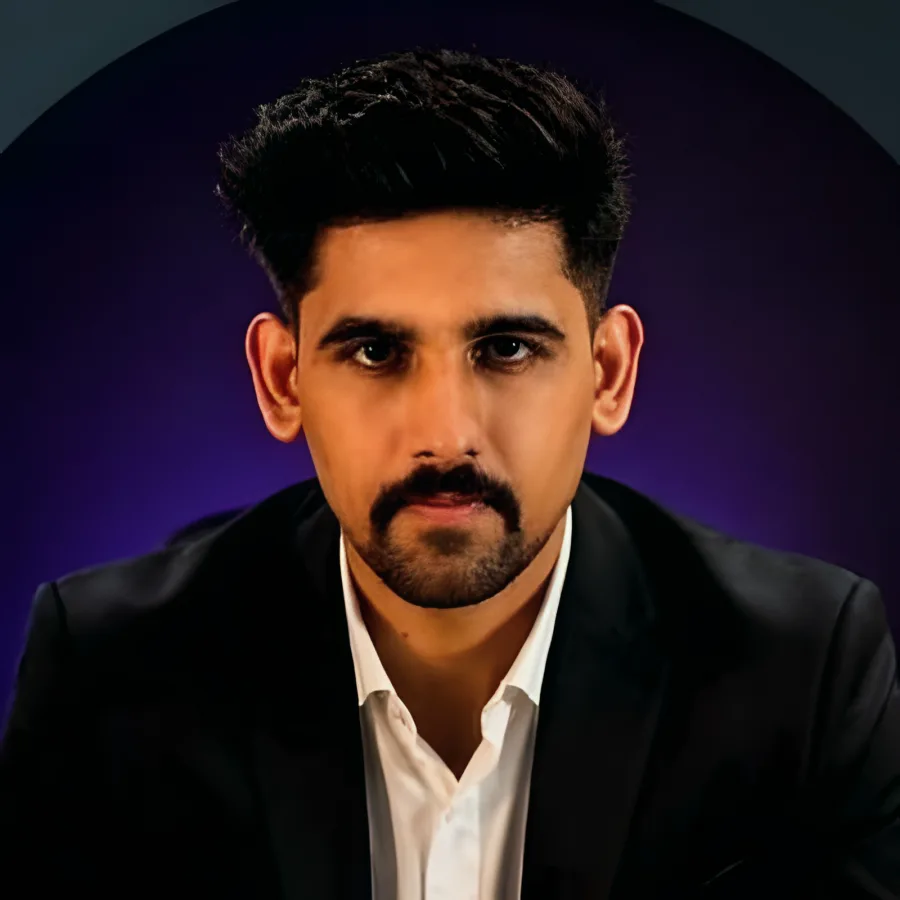
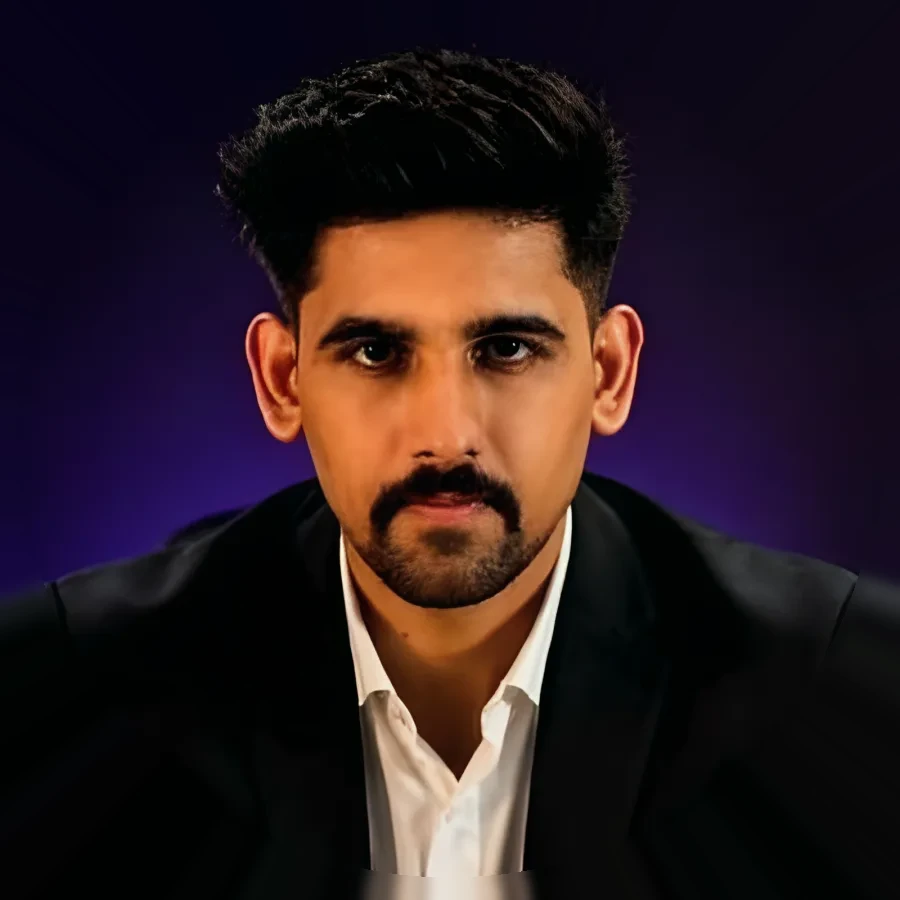
Web-researched competitive audit (21 competitors), animated zombie, clean creator photo corners, plugin 0.4.0

diff --git a/docs/index.html b/docs/index.html
@@ -97,8 +97,14 @@ section{padding:104px 0;position:relative}
 .show{display:grid;grid-template-columns:1.1fr .9fr;gap:18px;align-items:stretch}
 .show .card{padding:0;display:flex;flex-direction:column}
 .show .card .cap{padding:26px 30px}.show .card img{background:#07090c;padding:18px}
-.show .card>img.d{aspect-ratio:4/3;object-fit:cover;object-position:top;width:100%}
+.show .card>img.d{aspect-ratio:16/11;object-fit:cover;object-position:top;width:100%}
 .show .card .mb{flex:1;display:grid;place-items:center;background:#07090c;padding:24px}.show .card .mb img{padding:0;background:none}
+.show .card .mb{flex-direction:column;gap:18px;padding:30px 24px}.zs{width:min(100%,380px);aspect-ratio:212/260;background:url(img/mascot-states.png) 0 0/500% 100% no-repeat;animation:zf 5s steps(1) infinite,zb 1.6s ease-in-out infinite}
+@keyframes zf{0%{background-position:0 0}20%{background-position:25% 0}40%{background-position:50% 0}60%{background-position:75% 0}80%{background-position:100% 0}}
+@keyframes zb{50%{transform:translateY(-10px)}}
+.zl{display:flex;gap:14px;font-size:13px;color:var(--green)}.zl b{font-weight:600;opacity:.5;animation:zt 5s steps(1) infinite}.zl b:nth-child(2){animation-delay:1s}.zl b:nth-child(3){animation-delay:2s}.zl b:nth-child(4){animation-delay:3s}.zl b:nth-child(5){animation-delay:4s}
+@keyframes zt{0%{opacity:1}20%,100%{opacity:.35}}
+@media(prefers-reduced-motion:reduce){.zs,.zl b{animation:none}}
 .show .card h3{font-size:20px}.show .card p{margin-top:8px;font-size:16px}
 
 /* offer */
@@ -215,7 +221,7 @@ section{padding:64px 0}.hero{padding:44px 0 56px}.head{margin-bottom:34px}
 <div class="head rv"><p class="eyebrow">See it</p><h2>The numbers, right where you work.</h2><p class="lead">A small bar inside Claude Code for quick signals, and a dashboard for the details.</p></div>
 <div class="show">
 <div class="card rv"><img class="d" src="img/dashboard.png" alt="TOKEN ZOMBIE dashboard" loading="lazy"><div class="cap"><h3>Dashboard</h3><p>Usage, savings and warnings on one page. Opens on your computer only.</p></div></div>
-<div class="card rv" style="--i:1"><div class="mb"><img src="img/mascot-states.png" alt="Zombie mascot states: idle, working, excited, alert, sleep" loading="lazy"></div><div class="cap"><h3>The zombie tells you the state</h3><p>Idle, working, excited, alert or asleep, so you know at a glance when to act.</p></div></div>
+<div class="card rv" style="--i:1"><div class="mb"><div class="zs" role="img" aria-label="Animated zombie mascot cycling through idle, working, excited, alert and asleep"></div><div class="zl"><b>idle</b><b>working</b><b>excited</b><b>alert</b><b>asleep</b></div></div><div class="cap"><h3>The zombie tells you the state</h3><p>Idle, working, excited, alert or asleep, so you know at a glance when to act.</p></div></div>
 </div></div></section>
 
 <section id="offer" style="background:#0a110c;border-block:1px solid var(--line)"><div class="wrap">

diff --git a/docs/COMPETITIVE-INTELLIGENCE.md b/docs/COMPETITIVE-INTELLIGENCE.md
@@ -1,0 +1,43 @@
+# Competitive intelligence (web-researched 2026-11-23)
+
+Method: three read-only research passes fetched each project's GitHub page. **VERIFIED** = stated on the page as fact. **CLAIM** = the author's own marketing or self-reported number; nothing below was independently reproduced. Star counts are snapshots from the fetch date. One candidate (allytag/LeanContext) returned 404 and is excluded. Code of competitors was not read; only their README pages.
+
+## A. Token saving / output compression
+| Tool | Stars | Licence | What it does (VERIFIED) | Headline number (CLAIM) | Telemetry |
+|---|---|---|---|---|---|
+| RTK `rtk-ai/rtk` | ~87.5k | CLI Apache-2.0; engine BUSL-1.1 | Hook rewrites shell commands, filters test/git/ls/docker output, `rtk gain`, `rtk discover`, pipelines | "up to 90% less command output" (page admits not 90% cost) | opt-in |
+| Context Mode `mksglu/context-mode` | ~34.4k | Elastic 2.0 | Sandbox execution, blocks big reads, SQLite FTS5 search, compaction resume block | "99.4% of output bytes saved" (author's bench) | none |
+| Claude Token Optimizer `nadimtuhin` | 662 | MIT | Trims startup context (CLAUDE.md), audit, compress, prune, hooks | "11,000 → 800 startup tokens" (one project) | not stated |
+| Headroom `chopratejas/headroom` | ~80.5k | Apache-2.0 | Proxy/lib, JSON/AST/prose compressors, reversible originals, cache-aware, shared memory | "21–57% fewer input tokens" on 4 scenarios | beacon ON by default |
+| LeanCTX `yvgude/lean-ctx` | 4.0k | Apache-2.0 engine | 16 read modes, shell patterns, AST (27 langs), audit/proof, dashboard | none (table withdrawn; says savings can net to break-even) | configurable |
+| Token Optimizer `alexgreensh` | ~3.0k | PolyForm Noncommercial | Checkpoint/restore, quality score, audits skills/MCP, status bar, delta re-reads | "24.80M tokens saved" (9.83M metered + 14.97M estimated) | none |
+
+## B. Usage monitoring / observability
+| Tool | Stars | What it does (VERIFIED) | Gap noted |
+|---|---|---|---|
+| ccusage `ryoppippi` | 19.5k | Daily/session/5h-block reports from local logs, cache tokens, ~20 agents, offline pricing, statusline | read-only; no benchmark |
+| Claude-Code-Usage-Monitor `Maciek-roboblog` | ~8.8k | Live terminal monitor, burn rate, forecast, official 5h/7d % when fresh, provenance label per number | plan limits are fixed estimates |
+| claude-code-router `musistudio` | 38.3k | Gateway: routing, fallback, key limits, request logs | acts on traffic; sees prompts |
+| ccstatusline `sirmalloc` | ~13.7k | Statusline: cost, context %, cache hit rate/timer, 5h/weekly forecast | Anthropic usage API calls |
+| ai-observer `tobilg` | 298 | OTLP backend + dashboard, DuckDB, MCP query of own telemetry | OTLP counts differ from session files (own caveat) |
+| claude-code-otel `ColeMurray` | 525 | Grafana/Prometheus stack, team analytics | needs Docker; team-oriented |
+| Langfuse Claude Code integration | n/a | Per-turn traces, tool spans, evals | sends prompts to Langfuse host |
+
+## C. Memory / continuity / workflow
+| Tool | Stars | What it does (VERIFIED) | Proof |
+|---|---|---|---|
+| Claude-Mem `thedotmack` | 119k | Observer agent, SQLite+FTS5+Chroma, progressive disclosure, viewer UI | none; page says its token figures are "not a measured saving"; analytics on by default; observer adds LLM spend |
+| Superpowers `obra` | 324.1k | Skills framework: brainstorm, TDD, plans, subagent review | none quantitative; no persistent memory |
+| Ponytail `DietrichGebert` | 196.8k | Writes less code; live cost "band"; ledger | CLAIM: 39 tasks ×5 runs, −26% cost, −45% tokens (methodology file not checked) |
+| REMvisual/claude-handoff | 76 | /handoff, handoff chain, in-place compact swap | one qualitative A/B |
+| vasilispapg/claude-handoff | 1 | JSONL → handoff.md offline, hooks, redaction | none |
+| marcj/handover | 11 | /handover near 80%, living file, WIP commits | none; statusline daemon spends tokens |
+| Ruflo (claude-flow) `ruvnet` | 82.3k | Swarm orchestration, vector memory, 100+ agents | CLAIM only; heavy footprint |
+| wshobson/agents | 42.8k | 93 plugins / 199 agents catalog, multi-tool adapters | CLAIM; no memory |
+
+## Cross-cutting findings
+1. Almost nobody publishes an independent end-to-end cost benchmark. RTK, Claude-Mem and Token Optimizer admit output savings are not bill savings; LeanCTX withdrew its table. Only Ponytail publishes a controlled-looking scoreboard (self-reported).
+2. Leaders lead with one big number and a demo. TZ has neither yet.
+3. Default telemetry: Headroom and Claude-Mem are on by default; RTK opt-in; Context Mode and Token Optimizer say none.
+4. Licences: RTK engine BUSL, Context Mode ELv2, Token Optimizer noncommercial. TZ is MIT.
+5. Memory tools add background LLM cost (Claude-Mem, handover); handoff tools are mostly manual.

diff --git a/docs/COMPETITIVE-GAP-ANALYSIS.md b/docs/COMPETITIVE-GAP-ANALYSIS.md
@@ -1,26 +1,19 @@
-# Competitive gap analysis (repo-based, 2026-11-23)
+# Competitive gap analysis (web-researched, 2026-11-23)
 
-Scope: what TOKEN ZOMBIE has not built yet, taken from `IMPLEMENTATION-MATRIX.md`, `LIMITATIONS.md` and `COMPETITIVE-POSITIONING.md`. Competitor facts come from that positioning file and were **not re-verified against live repos** in this pass. No new web research, no code changes.
+Replaces the earlier repo-only version. Sources: `COMPETITIVE-INTELLIGENCE.md` (21 competitors, VERIFIED vs CLAIM) and `FEATURE-PARITY-MATRIX.md`.
 
-## Already built (do not rebuild)
-Hook ledger (SQLite), 5m/1h cache accounting, agent lifecycle + ROI flags, reversible output trim + recall, Python AST skeleton, handoffs/checkpoints/resume, retry tracking, A/B runner, toolbar, dashboard, CLI, local-first with no telemetry.
-
-## Missing or incomplete, ranked
-| Pri | Gap | Why it matters | Who does it better |
+| Pri | Gap | Why it matters | Effort |
 |---|---|---|---|
-| P0 | Real multi-trial A/B savings result (runner exists, no trial recorded) | Every strong competitor leads with one measured number; we cannot claim savings | Claude Token Optimizer, Context Mode |
-| P0 | Live-host verification of hook payloads, overlay look | "Built" is unproven until seen on a real host | n/a |
-| P1 | Short memorable command (we have `/token-zombie:tz`) | Recall and sharing | RTK (`rtk gain`) |
-| P1 | Real demo GIF of the toolbar warning and a handoff | Fastest way to sell it | most top repos |
-| P1 | MCP/plugin tool-schema cost (UNKNOWN today) and model pricing coverage | Big hidden token cost we cannot show | none verified |
-| P2 | Rework/retry quality scoring, skill outcome correlation, intervention outcomes | Turns warnings into proven advice | none verified |
-| P2 | Non-Python code compression (JS/TS) | Wider coverage of output trim | Context Mode (per positioning file) |
-| P2 | Real adapters beyond Claude Code (7 are rules-file stubs) | Reach, but dilutes focus | Context Mode, Superpowers |
-| P3 | Semantic/vector memory, task-level vault index | Cross-session recall | Claude-Mem |
-| REJECT | Full Claude-Mem replacement, RTK clone, nine-tab UI, auto agent spawning, lossy compression, blocking tools | Owner decisions already made | n/a |
+| P0 | No real A/B run (only measured 153,372 tokens; no controlled baseline) | Every leader leads with a number; TZ must not publish one it cannot prove | Needs real sessions: `tz bench` runner exists; owner runs it |
+| P0 | Live-host verification: re-run `./install.sh`, check toolbar look, 9 hook events | Several features read UNAVAILABLE until then | Owner, ~15 min |
+| P1 | MCP / tool-schema cost signal | Token Optimizer audits MCP; a big hidden cost | Small–medium |
+| P1 | 30-second demo GIF of the real toolbar | RTK/Ponytail convert on a visual | Small, needs real capture |
+| P1 | Handoff chain id + import of crashed-session JSONL | REMvisual and vasilispapg do this | Small |
+| P2 | Official 5h/7d usage view | Usage-Monitor, ccstatusline show it | Medium (host data) |
+| P2 | JS/TS skeleton compression | LeanCTX 27 langs | Medium |
+| P2 | Rework/retry scoring | Matrix row 9 | Medium |
+| P2 | CI-failing startup audit | Claude Token Optimizer | Small |
+| P3 | Real adapters beyond Claude | ccusage ~20 agents | Large; low value for Claude-first tool |
+| REJECT | Nine-tab UI, RTK clone, full Claude-Mem replacement, auto agent spawning, early vector memory, lossy compression, blocking tools | Owner decisions | — |
 
-## Where TZ is differentiated (unproven on savings)
-Every number is labelled MEASURED or EST; non-blocking advice; recoverable trims; zombie-agent detection; handoff survival checks. No verified competitor combines all of these, but that comes from the positioning notes, not a fresh audit.
-
-## Next step
-Run one real controlled A/B (same task, with and without TZ, logs published). Until then keep the "no savings figure promised" wording.
+TZ advantages confirmed: subagent ROI flags (no competitor page states them), MEASURED/EST labelling on every number, MIT licence with no telemetry, fail-open lossless trimming with `tz recall`, compaction-survival check.

diff --git a/docs/FEATURE-PARITY-MATRIX.md b/docs/FEATURE-PARITY-MATRIX.md
@@ -1,0 +1,32 @@
+# Feature parity matrix (2026-11-23)
+
+TZ column is checked against `docs/IMPLEMENTATION-MATRIX.md`, the modules in `bin/` and `bash tests/run_all.sh`. Labels: BUILT+TESTED · PART (partial) · NOT BUILT · HOST (needs real-host check) · N/A (rejected by owner).
+Leaders = competitors whose page states the capability (VERIFIED on their page).
+
+| # | Capability | TZ | Leaders | Note |
+|---|---|---|---|---|
+| 1 | Shell/tool output trimming | BUILT+TESTED (`tzout`, test_out) | RTK, LeanCTX, Context Mode | TZ has fewer filters than RTK (no per-tool filter catalogue) |
+| 2 | Lossless recovery of trimmed text | BUILT+TESTED (spill, `tz recall`) | Headroom, LeanCTX, Token Optimizer | parity |
+| 3 | Shadow / dry-run of savings | BUILT+TESTED (`tz shadow`) | LeanCTX | TZ also stages RECORD→ACTIVE |
+| 4 | Code compression (AST) | PART: Python only (`tzcompress`) | LeanCTX 27 langs, Headroom | JS/TS missing |
+| 5 | Search index over spilled/old output | BUILT+TESTED (FTS5) | Context Mode, Claude-Mem | TZ has no vector search (deliberate) |
+| 6 | Usage + cost from local logs | BUILT+TESTED (`tzusage`, 5m/1h cache split) | ccusage, Usage-Monitor | ccusage covers ~20 agents; TZ real adapter = Claude only |
+| 7 | Burn rate / limit forecast | PART (burn, next-request cost) | Usage-Monitor, ccstatusline | no official 5h/7d % view |
+| 8 | Provenance labels (MEASURED/EST) | BUILT+TESTED | Usage-Monitor | TZ labels every number |
+| 9 | Statusline / toolbar | BUILT; look not visually verified (HOST) | ccstatusline, Ponytail band | |
+| 10 | Dashboard | BUILT+TESTED | LeanCTX, Token Optimizer, ai-observer | |
+| 11 | Subagent lifecycle + ROI flags | BUILT+TESTED | none of the above state it | TZ-only |
+| 12 | Compaction survival check | BUILT+TESTED (`verify_compact`) | Token Optimizer (checkpoint), Context Mode | |
+| 13 | Handoff / resume | BUILT+TESTED (STATE.md, `tz resume`) | the 3 handoff tools | no crashed-session JSONL import, no handoff chain id |
+| 14 | Startup-context audit | PART (`tzstartup`, `tz audit`) | Claude Token Optimizer, Token Optimizer | no CI-failing audit |
+| 15 | Skill/instruction cost intel | BUILT (HOST) (`tzcap`, InstructionsLoaded) | Token Optimizer | |
+| 16 | MCP / tool-schema cost signal | NOT BUILT | Token Optimizer (audits MCP) | P1 gap |
+| 17 | Model/cost routing | PART (`tzroute` advice) | claude-code-router acts, Token Optimizer nudges | TZ advice only (deliberate: no blocking) |
+| 18 | OTLP / team analytics | NOT BUILT | ai-observer, claude-code-otel | out of scope for solo, local-first |
+| 19 | Controlled A/B savings proof | PART: runner `tzab` built and tested, **no real trial run** | Ponytail (self-reported) | P0 gap |
+| 20 | Real-host verification | HOST: 9 new hook events not live until install re-run | n/a | P0 gap |
+| 21 | Persistent semantic/vector memory | NOT BUILT | Claude-Mem, Ruflo | N/A by decision |
+| 22 | Nine-tab UI, RTK clone, auto agent spawning | N/A | n/a | rejected |
+| 23 | Zero default telemetry, MIT, local-only | BUILT | Context Mode, Token Optimizer (none); RTK opt-in | TZ edge on licence |
+
+Counts: 23 capabilities compared against 21 competitors. TZ: 13 built+tested or built, 6 partial, 2 not built, 2 rejected/N-A (rows overlap two statuses where noted).

diff --git a/docs/COMPETITIVE-AUDIT-REPORT.md b/docs/COMPETITIVE-AUDIT-REPORT.md
@@ -1,0 +1,13 @@
+# Competitive audit report (2026-11-23)
+
+**Competitors researched:** 21 (6 token-saving, 7 monitoring/observability, 8 memory/handoff/workflow) from their GitHub pages; 1 candidate dropped (404). **Capabilities compared:** 23. Facts are marked VERIFIED (page states it) or CLAIM (author's number); code of competitors was not read and no number was reproduced.
+
+**Built and tested in TZ:** output trimming with lossless recall, shadow mode, FTS5 recall, usage and cost with 5m/1h cache split, MEASURED/EST labels, subagent lifecycle and ROI flags, compaction survival check, handoff/resume, dashboard, CLI. **Partial:** Python-only code compression, burn/forecast, startup audit, routing advice, rework scoring, unified ledger. **Not built:** MCP/tool-schema cost signal, OTLP/team analytics, vector memory (the last by decision).
+
+**Strongest:** honest labelling, subagent ROI, MIT with no telemetry, recoverable trimming. **Weakest:** no controlled A/B number, no demo GIF, one real adapter, toolbar look unverified on a real host, no social proof.
+
+**Build next:** P0 real A/B trial and live-host verify (owner-run); P1 MCP cost signal, demo GIF, handoff chain id. **Deliberately not building:** nine-tab UI, RTK clone, Claude-Mem replacement, automatic agent spawning, early vector memory, lossy compression, blocking tools.
+
+**Test status:** `bash tests/run_all.sh` = 800 pass, 2 fail on the first run. The 2 failures (`test_hard`: SIGKILLed-runner partial count and orphan partial) are timing tests; `test_hard.sh` rerun alone = 51 pass, 0 fail. Not yet re-run as a full suite after the rerun.
+
+**Is TZ differentiated?** Yes, narrowly: it is the only one found that labels every number MEASURED/EST, flags low-value subagents, and ships MIT with no telemetry. It is not yet "best": leaders have bigger numbers, demos and stars. The savings claim stays at the measured 153,372 tokens until a real A/B is run.

diff --git a/docs/ROADMAP.md b/docs/ROADMAP.md
@@ -78,3 +78,6 @@ See [Compatibility](../COMPAT.md).
 A capability moves from planned to in-development only when implementation work starts. It moves to available only when the code and relevant tests support the claim. Host-dependent features remain marked unverified until tested on the actual host. Savings claims require real A/B evidence and quality checks.
 
 For known gaps, consult [Limitations](LIMITATIONS.md) and [Host Verification](HOST-VERIFY.md).
+
+## Competitive-audit priorities (added 2026-11-23)
+Order from `COMPETITIVE-GAP-ANALYSIS.md`: P0 real A/B trial and live-host verification (owner-run); P1 MCP/tool-schema cost signal, real-toolbar demo GIF, handoff chain id; P2 official usage view, JS/TS skeletons, rework scoring, CI-failing startup audit; P3 non-Claude adapters. Rejected: nine-tab UI, RTK clone, Claude-Mem replacement, auto agent spawning, early vector memory, lossy compression, blocking tools.
